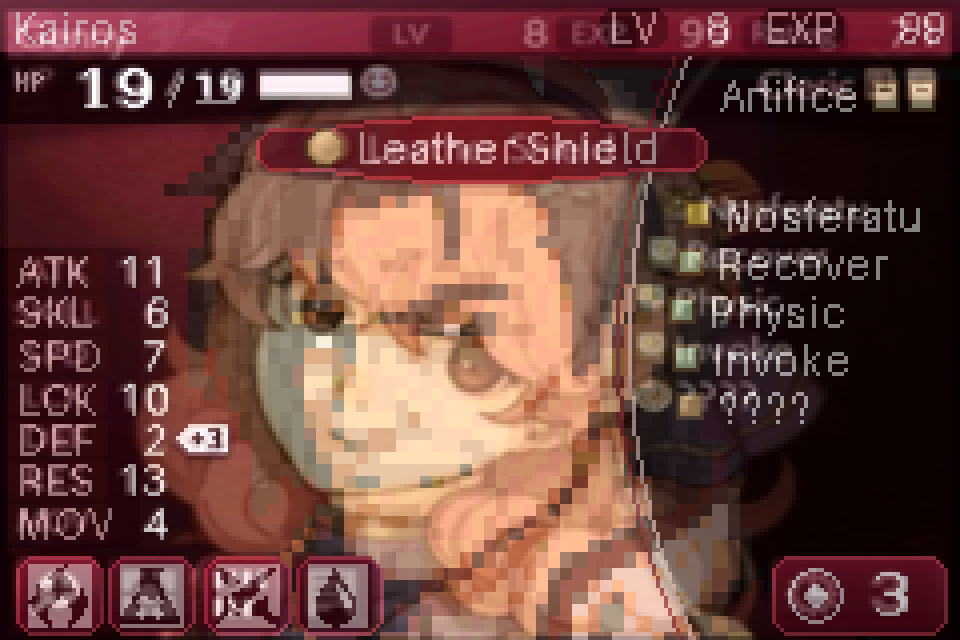
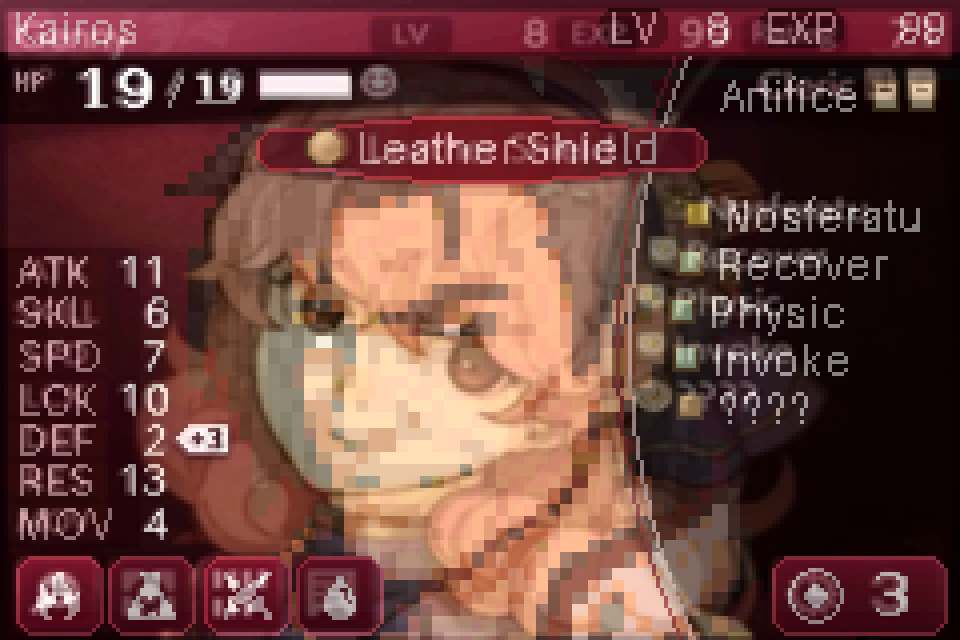
Iconos de botones: solo silueta blanca 12px centrada sobre el degradado
Claude-Session: https://claude.ai/code/session_01C4QAM7MwvCQVjJLG12SBSt

Changed region(s): [[0.125, 0.875, 0.4062, 1.0], [0.0312, 0.875, 0.0938, 1.0]]

diff --git a/gba_status/generar.py b/gba_status/generar.py
@@ -187,16 +187,23 @@ def boton(x0, y0, x1, y1, rad=5):  # caja redondeada con degradado vertical
     d.rounded_rectangle([x0, y0, x1, y1], rad, outline=FR)
 # iconos de habilidad: 4 del negativo (fila de abajo de iconos_skills.webp)
 hoja = Image.open("iconos_skills.webp").convert("L")
-def icono(n, lado=16):
+def icono(n, lado=12):
+    # silueta = lo negro del cuadro negativo; se recorta a su caja y se ajusta a lado x lado
     x0 = round(18 + n * 141.7)
-    t_ = hoja.crop((x0, 326, x0 + 118, 448)).resize((lado, lado), Image.LANCZOS)
-    return t_.point(lambda v: 255 if v > 128 else 0)  # 2 colores
+    t_ = hoja.crop((x0 + 6, 332, x0 + 112, 442)).point(lambda v: 255 if v < 110 else 0)
+    t_ = t_.crop(t_.getbbox())
+    k = lado / max(t_.size)
+    t_ = t_.resize((max(1, round(t_.width * k)), max(1, round(t_.height * k))), Image.LANCZOS)
+    t_ = t_.point(lambda v: 255 if v > 110 else 0)
+    m_ = Image.new("L", (lado, lado), 0)
+    m_.paste(t_, ((lado - t_.width) // 2, (lado - t_.height) // 2))
+    return m_
 ICONOS = [icono(n) for n in (0, 1, 4, 9)]  # fuego, frasco, espadas, gota
 for i, ic in enumerate(ICONOS):
     x = 4 + i * 23.5; x = int(x)
     boton(x, 139, x + 21, 158)
-    img.paste(Image.new("RGB", (16, 16), c(232, 216, 216)), (x + 3, 141))       # cuadro claro
-    img.paste(Image.new("RGB", (16, 16), c(48, 8, 20)), (x + 3, 141), ic.point(lambda v: 255 - v))  # icono oscuro
+    # icono en blanco sobre el degradado, centrado en el boton (22x20)
+    img.paste(Image.new("RGB", ic.size, TXT), (x + (22 - ic.width) // 2, 139 + (20 - ic.height) // 2), ic)
 boton(193, 139, 236, 158)
 d.ellipse([197, 142, 210, 155], outline=TXT); d.ellipse([201, 146, 206, 151], fill=TXT)
 d.text((218, 140), "3", font=fb, fill=TXT)
